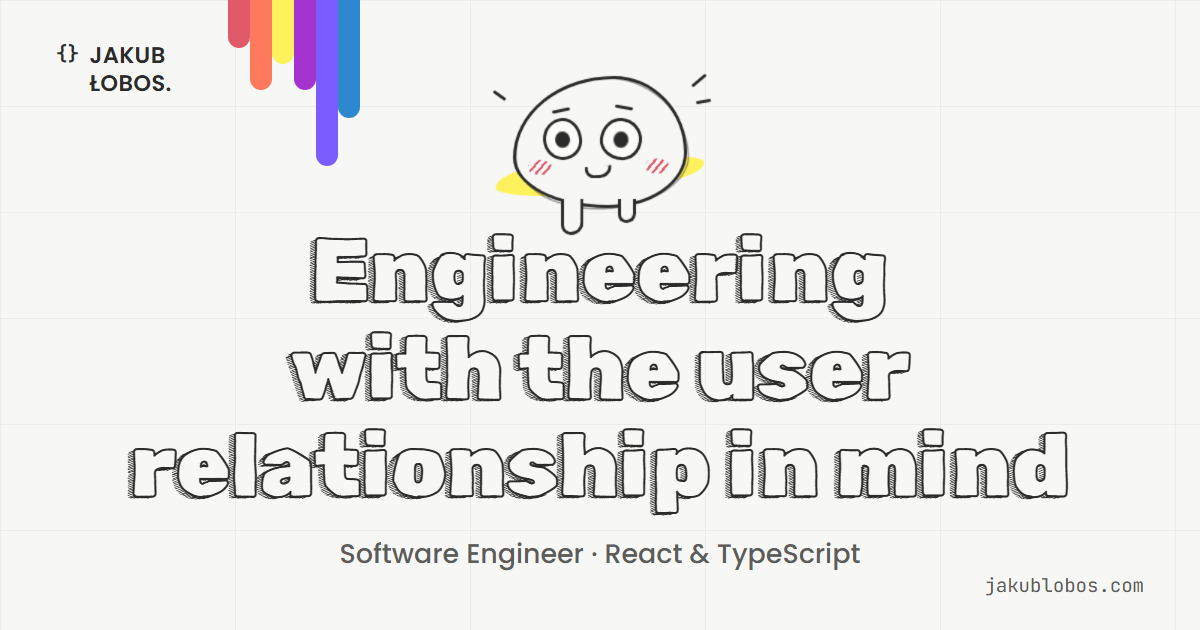
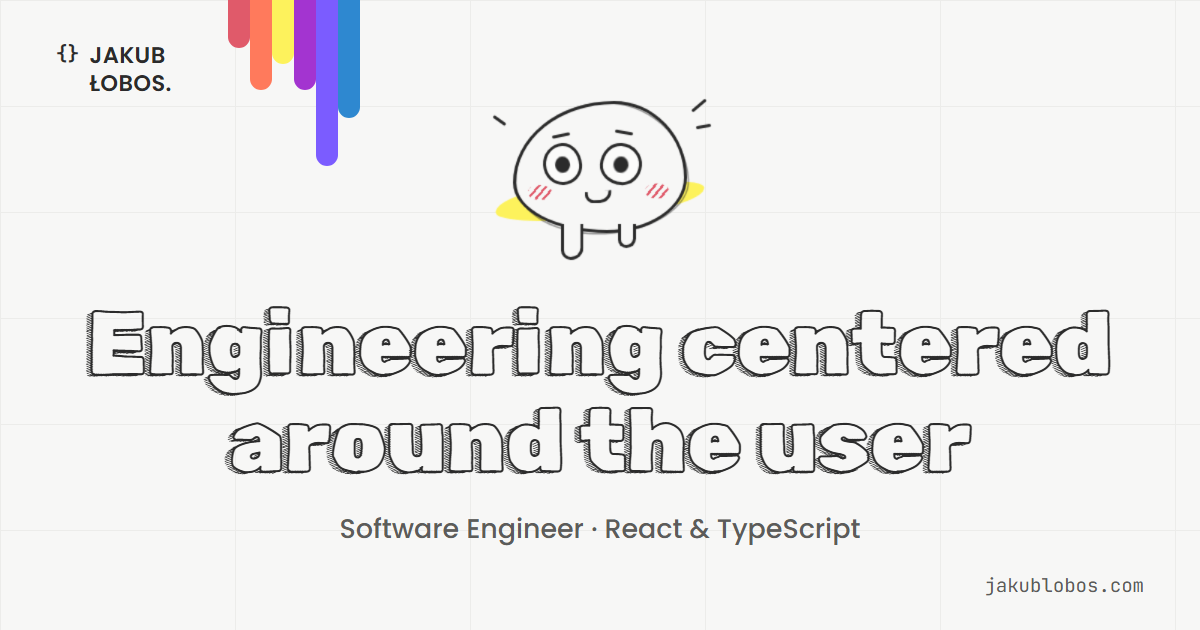
feat(web): shorten EN hero headline to centered around the user [T-065]

Changed region(s): [[0.0617, 0.1206, 0.925, 0.9048]]

diff --git a/apps/web/src/i18n/messages/seo.ts b/apps/web/src/i18n/messages/seo.ts
@@ -6,7 +6,7 @@ export const seo = defineMessages({
     og: {
       subtitle: 'Software Engineer · React & TypeScript',
       domain: 'jakublobos.com',
-      alt: 'Jakub Łobos, Software Engineer: a hand-drawn mascot under the headline “Engineering with the user relationship in mind”',
+      alt: 'Jakub Łobos, Software Engineer: a hand-drawn mascot under the headline “Engineering centered around the user”',
     },
     home: {
       title: 'Jakub Łobos — Software Engineer Portfolio',

diff --git a/apps/web/src/i18n/messages/hero.ts b/apps/web/src/i18n/messages/hero.ts
@@ -4,7 +4,7 @@ import { defineMessages } from '../t.ts';
 // (Polish "w figmie").
 export const hero = defineMessages({
   en: {
-    title: 'Engineering with the user relationship in mind',
+    title: 'Engineering centered around the user',
     build: {
       before: 'I’m making web-apps mostly in',
       first: 'react',

diff --git a/docs/content/pl-copy-review.md b/docs/content/pl-copy-review.md
@@ -65,7 +65,7 @@ Source: `apps/web/src/i18n/messages/hero.ts`
 
 | Key | EN | PL | Owner correction |
 | --- | -- | -- | ---------------- |
-| `title` | Engineering with the user relationship in mind | Inżynieria z myślą o relacji z użytkownikiem |   |
+| `title` | Engineering centered around the user | Inżynieria z myślą o relacji z użytkownikiem |   |
 | `build.before` | I’m making web-apps mostly in | Tworzę aplikacje webowe głównie w |   |
 | `build.first` | react | react |   |
 | `build.join` | & | i |   |
@@ -262,7 +262,7 @@ Source: `apps/web/src/i18n/messages/seo.ts`
 | --- | -- | -- | ---------------- |
 | `og.subtitle` | Software Engineer · React & TypeScript | Software Engineer · React i TypeScript |   |
 | `og.domain` | jakublobos.com | jakublobos.com |   |
-| `og.alt` | Jakub Łobos, Software Engineer: a hand-drawn mascot under the headline “Engineering with the user relationship in mind” | Jakub Łobos, Software Engineer: ręcznie rysowana maskotka pod hasłem „Inżynieria z myślą o relacji z użytkownikiem” |   |
+| `og.alt` | Jakub Łobos, Software Engineer: a hand-drawn mascot under the headline “Engineering centered around the user” | Jakub Łobos, Software Engineer: ręcznie rysowana maskotka pod hasłem „Inżynieria z myślą o relacji z użytkownikiem” |   |
 | `home.title` | Jakub Łobos — Software Engineer Portfolio | Jakub Łobos — portfolio Software Engineera |   |
 | `home.description` | Portfolio of Jakub Łobos, a software engineer building web apps with React and TypeScript and designing them in Figma. | Portfolio Jakuba Łobosa — Software Engineera, który tworzy aplikacje webowe w React i TypeScript i projektuje je w Figmie. |   |
 | `privacy.title` | Privacy policy — Jakub Łobos | Polityka prywatności — Jakub Łobos |   |

diff --git a/tasks/reports/T-065/implementation-r2.md b/tasks/reports/T-065/implementation-r2.md
@@ -1,0 +1,25 @@
+# T-065 implementation report, round 2
+
+Owner follow-up: the EN headline is now "Engineering centered around the user" (no trailing period, matching PL). PL is unchanged.
+
+## Changed files
+
+- `apps/web/src/i18n/messages/hero.ts`: EN `title`.
+- `apps/web/src/i18n/messages/seo.ts`: EN `og.alt` quote.
+- `docs/content/pl-copy-review.md`: EN column of the hero `title` and `og.alt` rows.
+- `apps/web/public/og/og-en.png`: regenerated with `pnpm og:generate` (107922 bytes). Viewed: 2 balanced lines, fully inside the card, no clipping.
+
+The round-1 report and spec still name the earlier headline; they are the historical record and were left as they were.
+
+## Hero check (built site, port 4405 only, process killed afterwards)
+
+| Locale and width | html scrollWidth/clientWidth | h1 scrollWidth/clientWidth | h1 height |
+| ---------------- | ---------------------------- | -------------------------- | --------- |
+| EN 390           | 390/390                      | 350/350                    | 132       |
+| EN 1440          | 1440/1440                    | 856/856                    | 150       |
+
+No overflow. The shorter line wraps to fewer lines, so the round-1 clip-path inset check still holds. No CSS changes.
+
+## `pnpm verify`
+
+Green (exit 0, Budgets OK).
